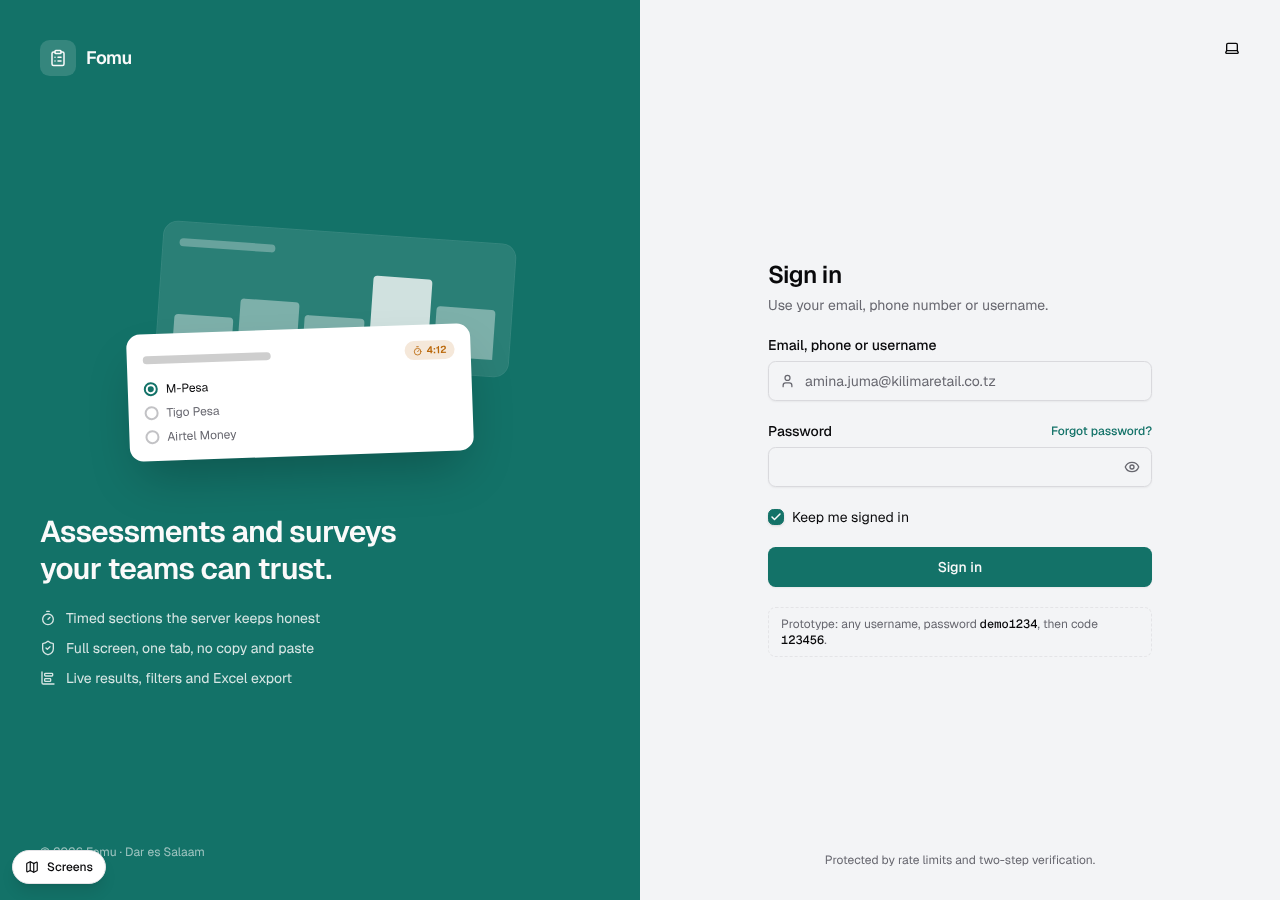
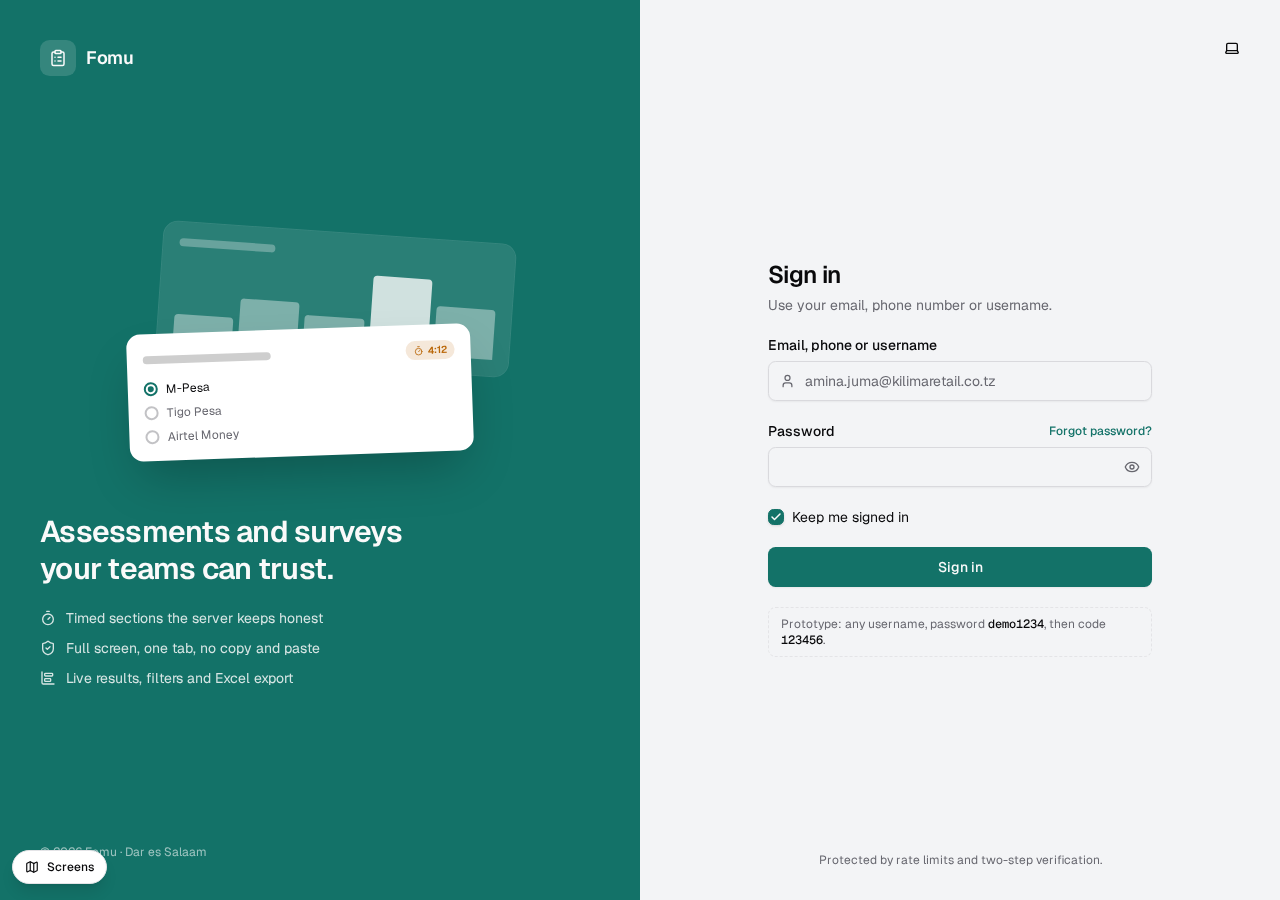
Product name in the in-app curtain and the phone frame; reshoot the sign-in
The curtain said 'Loading undefined…' while booting and the phone frame's title
was the literal ' + PNAME + ': both now read PRODUCT.name. The sign-in
screenshots are reshot with the kit's shot tool (Geist).

diff --git a/prototype/index.html b/prototype/index.html
@@ -6848,7 +6848,7 @@ const ScreensPill = {
 };
 const ROUTE_LABEL = new Proxy({ login: 'Sign in', twofa: 'Sign in', orgpick: 'Organisations', forgot: 'Sign in', forms: 'Forms', templates: 'Templates', members: 'Users', workspace: 'Settings', menus: 'Menu Management', design: 'Design system', builder: 'Builder', responses: 'Results', respondent: 'Live form' }, { get: (t, k) => t[k] || (typeof k === 'string' ? k.replace(/-/g, ' ').replace(/^./, c => c.toUpperCase()) : undefined) });
 const Curtain = {
-  setup() { return { G, ROUTE_LABEL }; },
+  setup() { return { G, ROUTE_LABEL, PRODUCT }; },
   template: `<div class="curtain pointer-events-none fixed inset-0 z-[120]" :data-state="G.curtain" aria-hidden="true" :class="G.curtain!=='idle' && 'pointer-events-auto'">
     <div class="half half-l"></div><div class="half half-r"></div>
     <div class="curtain-loader" role="status" :aria-hidden="G.curtain!=='closed'">
@@ -6856,7 +6856,7 @@ const Curtain = {
         <span class="absolute inset-0 animate-spin rounded-full border-2" style="animation-duration:.8s;border-color:hsl(var(--curtain-fg) / .25);border-top-color:hsl(var(--curtain-fg))"></span>
         <span class="grid h-11 w-11 place-items-center rounded-xl" style="background:hsl(var(--curtain-fg) / .15);color:hsl(var(--curtain-fg))"><BrandMark :size="20"/></span>
       </div>
-      <p class="mt-4 text-sm font-medium" style="color:hsl(var(--curtain-fg))">{{ G.booting ? 'Loading ' + PNAME + '…' : 'Opening ' + (ROUTE_LABEL[G.route] || 'page') + '…' }}</p>
+      <p class="mt-4 text-sm font-medium" style="color:hsl(var(--curtain-fg))">{{ G.booting ? 'Loading ' + PRODUCT.name + '…' : 'Opening ' + (ROUTE_LABEL[G.route] || 'page') + '…' }}</p>
     </div></div>`
 };
 const PhoneFrame = {
@@ -6867,7 +6867,7 @@ const PhoneFrame = {
     onBeforeUnmount(() => window.removeEventListener('resize', fit));
     const doc = __SRC.replace(/<head([^>]*)>/i, (m) => m + '<script>window.__PHONE=true;window.__INIT_ROUTE=' + JSON.stringify(G.route) + ';<\/script>');
     const clock = new Date().toLocaleTimeString('en-GB', { hour: '2-digit', minute: '2-digit' });
-    return { G, scale, doc, clock };
+    return { G, scale, doc, clock, PRODUCT };
   },
   template: `<div class="fixed inset-0 z-[80] flex flex-col items-center overflow-auto bg-canvas px-4 py-4">
     <div class="mb-3 flex w-full max-w-md items-center justify-between gap-3">
@@ -6879,7 +6879,7 @@ const PhoneFrame = {
           <div class="relative flex h-11 shrink-0 items-center justify-between bg-background px-7 text-[13px] font-semibold tnum"><span>{{ clock }}</span>
             <span class="absolute left-1/2 top-2 h-7 w-28 -translate-x-1/2 rounded-full bg-[#18181b]" aria-hidden="true"></span>
             <span class="flex items-center gap-1"><Icon name="Signal" :size="14"/><Icon name="Wifi" :size="14"/><Icon name="BatteryFull" :size="16"/></span></div>
-          <iframe :srcdoc="doc" title="' + PNAME + ' on a phone" class="block w-full flex-1 border-0 bg-background"></iframe>
+          <iframe :srcdoc="doc" :title="PRODUCT.name + ' on a phone'" class="block w-full flex-1 border-0 bg-background"></iframe>
           <div class="flex h-6 shrink-0 items-center justify-center bg-background"><span class="h-1 w-32 rounded-full bg-foreground/80"></span></div>
         </div></div></div>
     <p class="mt-3 max-w-md text-center text-xs text-muted-foreground">The phone runs its own copy of the prototype. Use its Screens button to move around.</p>

diff --git a/prototype/src/assemble.py b/prototype/src/assemble.py
@@ -267,7 +267,7 @@ const ScreensPill = {
 };
 const ROUTE_LABEL = new Proxy({ login: 'Sign in', twofa: 'Sign in', orgpick: 'Organisations', forgot: 'Sign in', forms: 'Forms', templates: 'Templates', members: 'Users', workspace: 'Settings', menus: 'Menu Management', design: 'Design system', builder: 'Builder', responses: 'Results', respondent: 'Live form' }, { get: (t, k) => t[k] || (typeof k === 'string' ? k.replace(/-/g, ' ').replace(/^./, c => c.toUpperCase()) : undefined) });
 const Curtain = {
-  setup() { return { G, ROUTE_LABEL }; },
+  setup() { return { G, ROUTE_LABEL, PRODUCT }; },
   template: `<div class="curtain pointer-events-none fixed inset-0 z-[120]" :data-state="G.curtain" aria-hidden="true" :class="G.curtain!=='idle' && 'pointer-events-auto'">
     <div class="half half-l"></div><div class="half half-r"></div>
     <div class="curtain-loader" role="status" :aria-hidden="G.curtain!=='closed'">
@@ -275,7 +275,7 @@ const Curtain = {
         <span class="absolute inset-0 animate-spin rounded-full border-2" style="animation-duration:.8s;border-color:hsl(var(--curtain-fg) / .25);border-top-color:hsl(var(--curtain-fg))"></span>
         <span class="grid h-11 w-11 place-items-center rounded-xl" style="background:hsl(var(--curtain-fg) / .15);color:hsl(var(--curtain-fg))"><BrandMark :size="20"/></span>
       </div>
-      <p class="mt-4 text-sm font-medium" style="color:hsl(var(--curtain-fg))">{{ G.booting ? 'Loading ' + PNAME + '…' : 'Opening ' + (ROUTE_LABEL[G.route] || 'page') + '…' }}</p>
+      <p class="mt-4 text-sm font-medium" style="color:hsl(var(--curtain-fg))">{{ G.booting ? 'Loading ' + PRODUCT.name + '…' : 'Opening ' + (ROUTE_LABEL[G.route] || 'page') + '…' }}</p>
     </div></div>`
 };
 const PhoneFrame = {
@@ -286,7 +286,7 @@ const PhoneFrame = {
     onBeforeUnmount(() => window.removeEventListener('resize', fit));
     const doc = __SRC.replace(/<head([^>]*)>/i, (m) => m + '<script>window.__PHONE=true;window.__INIT_ROUTE=' + JSON.stringify(G.route) + ';<\/script>');
     const clock = new Date().toLocaleTimeString('en-GB', { hour: '2-digit', minute: '2-digit' });
-    return { G, scale, doc, clock };
+    return { G, scale, doc, clock, PRODUCT };
   },
   template: `<div class="fixed inset-0 z-[80] flex flex-col items-center overflow-auto bg-canvas px-4 py-4">
     <div class="mb-3 flex w-full max-w-md items-center justify-between gap-3">
@@ -298,7 +298,7 @@ const PhoneFrame = {
           <div class="relative flex h-11 shrink-0 items-center justify-between bg-background px-7 text-[13px] font-semibold tnum"><span>{{ clock }}</span>
             <span class="absolute left-1/2 top-2 h-7 w-28 -translate-x-1/2 rounded-full bg-[#18181b]" aria-hidden="true"></span>
             <span class="flex items-center gap-1"><Icon name="Signal" :size="14"/><Icon name="Wifi" :size="14"/><Icon name="BatteryFull" :size="16"/></span></div>
-          <iframe :srcdoc="doc" title="' + PNAME + ' on a phone" class="block w-full flex-1 border-0 bg-background"></iframe>
+          <iframe :srcdoc="doc" :title="PRODUCT.name + ' on a phone'" class="block w-full flex-1 border-0 bg-background"></iframe>
           <div class="flex h-6 shrink-0 items-center justify-center bg-background"><span class="h-1 w-32 rounded-full bg-foreground/80"></span></div>
         </div></div></div>
     <p class="mt-3 max-w-md text-center text-xs text-muted-foreground">The phone runs its own copy of the prototype. Use its Screens button to move around.</p>
